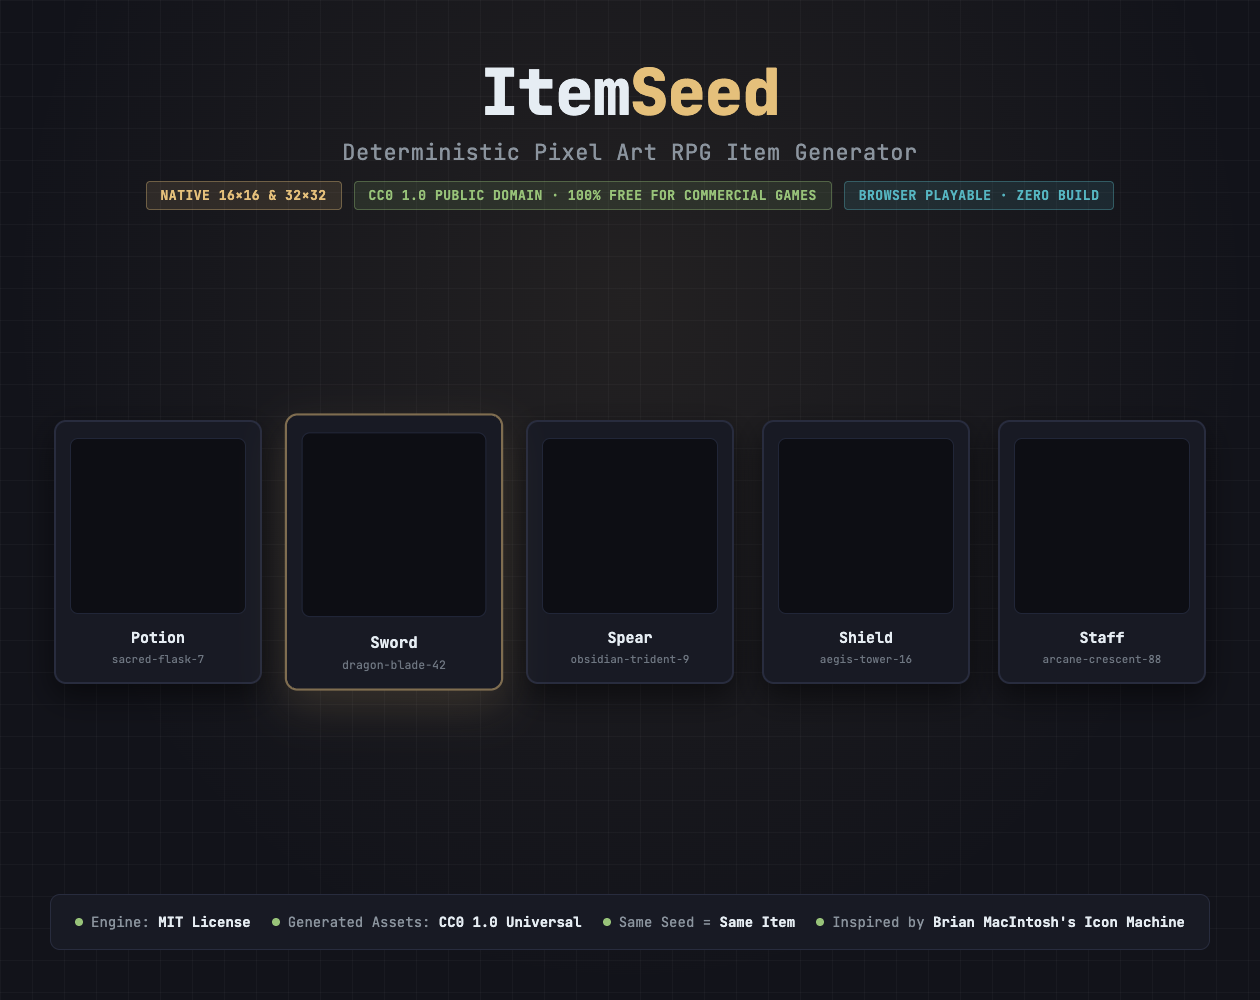
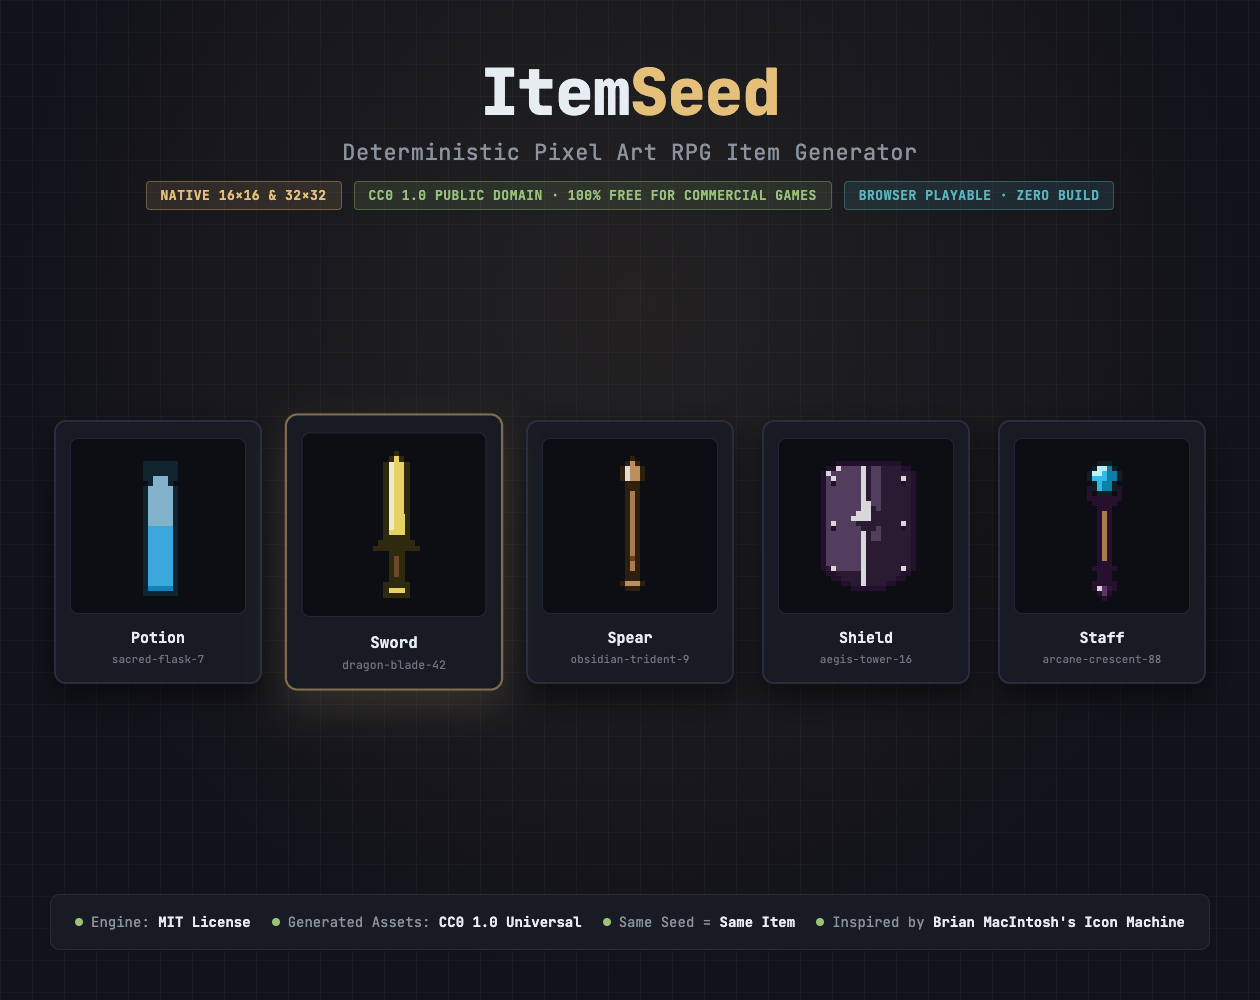
fix(itch): resolve blank cover canvas rendering and add store description formatting helper (TASK-018)
- Fix Puppeteer script loading in scripts/generate-itch-assets.mjs by inlining core drawing modules to avoid Chromium about:blank local resource blocking.
- Add render verification assertion for non-zero pixel rendering in all 5 showcase item canvases.
- Regenerate docs/pm/assets/cover.png with crisp, rendered 32x32 pixel art.
- Update docs/pm/ITCH_RELEASE_PACK.md Section 3 with rich-text formatted copy instructions and replace unsupported Markdown table with list format.
- Add docs/pm/store-description.html for easy one-click rich text copying into itch.io WYSIWYG editor.
- Add aggregate 'npm test' script to package.json and update FRONTEND_KANBAN.md (TASK-018 to Done).

diff --git a/docs/pm/store-description.html b/docs/pm/store-description.html
@@ -1,0 +1,146 @@
+<!DOCTYPE html>
+<html lang="en">
+<head>
+  <meta charset="utf-8">
+  <title>ItemSeed — itch.io Store Description Formatted Preview</title>
+  <style>
+    body {
+      font-family: -apple-system, BlinkMacSystemFont, "Segoe UI", Roboto, Helvetica, Arial, sans-serif;
+      max-width: 820px;
+      margin: 40px auto;
+      padding: 24px;
+      line-height: 1.65;
+      color: #24292f;
+      background: #fafbfc;
+    }
+    .instruction-card {
+      background: #f0f7ff;
+      border: 2px dashed #0969da;
+      border-radius: 10px;
+      padding: 18px 24px;
+      margin-bottom: 32px;
+    }
+    .instruction-card h2 {
+      margin: 0 0 8px 0;
+      font-size: 17px;
+      color: #0969da;
+    }
+    .instruction-card p {
+      margin: 4px 0;
+      font-size: 14px;
+      color: #1f2328;
+    }
+    .content-container {
+      background: #ffffff;
+      border: 1px solid #d0d7de;
+      border-radius: 10px;
+      padding: 36px 40px;
+      box-shadow: 0 4px 16px rgba(0, 0, 0, 0.04);
+    }
+    h1 {
+      font-size: 28px;
+      border-bottom: 2px solid #eaecef;
+      padding-bottom: 12px;
+      margin-top: 0;
+    }
+    h3 {
+      font-size: 19px;
+      margin-top: 24px;
+      margin-bottom: 12px;
+    }
+    hr {
+      border: 0;
+      border-top: 1px solid #d0d7de;
+      margin: 24px 0;
+    }
+    ul, ol {
+      padding-left: 24px;
+    }
+    li {
+      margin-bottom: 8px;
+    }
+    code {
+      background: rgba(175, 184, 193, 0.2);
+      padding: 2px 6px;
+      border-radius: 4px;
+      font-size: 85%;
+    }
+    a {
+      color: #0969da;
+      text-decoration: underline;
+    }
+  </style>
+</head>
+<body>
+  <div class="instruction-card">
+    <h2>📋 How to Copy to itch.io Description:</h2>
+    <p>1. Open this file in your web browser (Chrome, Edge, or Safari).</p>
+    <p>2. Select all text inside the white box below (from <strong>ItemSeed — Pixel Art RPG Item Generator</strong> down to the GitHub link).</p>
+    <p>3. Press <strong>Cmd+C</strong> (macOS) or <strong>Ctrl+C</strong> (Windows) to copy rich formatted text.</p>
+    <p>4. Paste (<strong>Cmd+V</strong>) directly into the itch.io description editor. It will preserve all bold styling, bullet lists, headings, and links cleanly!</p>
+  </div>
+
+  <div class="content-container" id="copy-area">
+    <h1>ItemSeed — Pixel Art RPG Item Generator</h1>
+
+    <p><strong>ItemSeed</strong> is a seeded, deterministic procedural pixel-art RPG item generator that runs directly in your browser.</p>
+
+    <p>Generate infinite weapons, gear, and magical artifacts without external dependencies or heavy engines. Every generated asset can be downloaded as a clean, transparent PNG and is licensed under <strong>CC0 1.0 Universal</strong> — <strong>100% free for commercial and indie games with no strings attached</strong>.</p>
+
+    <hr>
+
+    <h3>✨ Key Features</h3>
+    <ul>
+      <li><strong>Native 16×16 &amp; 32×32 Pixel Art</strong>: Built from the ground up for retro resolutions. 16×16 icons are uniquely hand-compressed with feature-folding logic, never crudely downscaled.</li>
+      <li><strong>Same Seed = Same Item</strong>: Fully deterministic procedural generation. A 20-character string reproduces the exact same sprite every time, allowing artwork to live in source code rather than binary blobs.</li>
+      <li><strong>24-Cell Batch Exploration</strong>: Explore 24 procedural variations simultaneously. Click any cell to immediately inspect, fine-tune, or download.</li>
+      <li><strong>Transparent PNG Export</strong>: Single-click download (<code>⇩ png</code>) with standardized filenames containing item type, seed string, and resolution.</li>
+      <li><strong>Multi-Theme &amp; Multi-Language</strong>: Seamless dark/light theme switching and full dual-language support (English &amp; 繁體中文).</li>
+      <li><strong>Runs Everywhere</strong>: Zero build step, vanilla HTML5 Canvas + JavaScript. No ads, no logins, no paywalls.</li>
+    </ul>
+
+    <hr>
+
+    <h3>🛡 Supported Item Families</h3>
+    <ol>
+      <li><strong>Potion</strong>: Volumetric flasks, round bottles, test tubes with fluid levels, bubbling effects, and cork/wax/cloth seal stoppers.</li>
+      <li><strong>Sword</strong>: Slanted broadswords, rapiers, and curved sabers with blade reflections, crossguards, grips, and pommels.</li>
+      <li><strong>Spear</strong>: Symmetrical tridents, harpoons, and straight lances with bound shafts and butt caps.</li>
+      <li><strong>Shield</strong>: Heater shields, studded tower shields, and round bucklers with ornate bosses and rim rivets.</li>
+      <li><strong>Staff</strong>: Crescent-head, arcane-orb, and shepherd-crozier staves with embedded 4-element crystal matrices.</li>
+    </ol>
+
+    <hr>
+
+    <h3>📜 Clear, Developer-Friendly Licensing</h3>
+    <ul>
+      <li><strong>Generated Assets (PNG &amp; JSON) — CC0 1.0 Universal (Public Domain)</strong>:<br>
+      <strong>Free for commercial games</strong>, personal projects, game jams, and modifications. No royalties, no attribution required.</li>
+      <li><strong>Generator Engine (Source Code) — MIT License</strong>:<br>
+      Fully open source. Free to inspect, study, fork, or build tools around.</li>
+    </ul>
+
+    <hr>
+
+    <h3>❓ Frequently Asked Questions (FAQ)</h3>
+
+    <p><strong>Q: Can I use the generated icons in commercial games sold on Steam, itch.io, or consoles?</strong><br>
+    <strong>A:</strong> Yes, absolutely. All exported PNG files and JSON specifications are dedicated to the public domain under CC0 1.0. You may use them in any commercial product without paying royalties or asking for permission.</p>
+
+    <p><strong>Q: Do I need to credit ItemSeed in my game?</strong><br>
+    <strong>A:</strong> No attribution is legally required. A shoutout in your credits is always appreciated, but entirely optional.</p>
+
+    <p><strong>Q: Can I edit, recolor, or upscale the downloaded icons?</strong><br>
+    <strong>A:</strong> Yes. Feel free to open the transparent PNGs in Aseprite, Photoshop, or your favorite pixel editor to adjust palettes or add animations.</p>
+
+    <hr>
+
+    <h3>💡 Credits &amp; Attribution</h3>
+    <ul>
+      <li><strong>Inspiration</strong>: ItemSeed is inspired by Brian MacIntosh's pioneering <a href="https://bmaczero.itch.io/icon-machine" target="_blank" rel="noopener">Icon Machine</a>.</li>
+      <li><strong>Provenance &amp; Verification</strong>: ItemSeed is an independent, clean-room implementation using modern canvas rendering and standard public-domain algorithms (Mulberry32 PRNG and cyrb53 hash). Full audit record is available in our <a href="https://github.com/ochowei/itemseed/blob/dev/docs/PROVENANCE.md" target="_blank" rel="noopener">PROVENANCE.md</a>.</li>
+      <li><strong>Source Code</strong>: Explore the source, report issues, or contribute on <a href="https://github.com/ochowei/itemseed" target="_blank" rel="noopener">GitHub (ochowei/itemseed)</a>.</li>
+    </ul>
+  </div>
+</body>
+</html>

diff --git a/docs/pm/ITCH_RELEASE_PACK.md b/docs/pm/ITCH_RELEASE_PACK.md
@@ -24,6 +24,7 @@ npm run assets:itch
 | **Screenshot 1** | `docs/pm/assets/screenshot_01_studio.png` | Desktop studio interface in action (`1280 × 800 px`). |
 | **Screenshot 2** | `docs/pm/assets/screenshot_02_batch.png` | 24-cell batch preview exploration (`1280 × 800 px`). |
 | **Screenshot 3** | `docs/pm/assets/screenshot_03_dual_resolution.png` | Native 32×32 vs 16×16 pixel art comparison (`1280 × 800 px`). |
+| **Store Description (Rich)** | `docs/pm/store-description.html` | Formatted preview helper for copy-pasting directly into itch.io rich text editor. |
 
 ---
 
@@ -57,7 +58,18 @@ Under **Embed options**:
 
 ## 3. Store Description Copy (Ready to Copy-Paste)
 
-Copy the markdown block below directly into the itch.io description editor:
+itch.io's project description field uses a **Rich Text (WYSIWYG) Editor** by default, rather than raw Markdown. Choose whichever workflow matches your itch.io account configuration:
+
+### Method A (Recommended for Default itch.io Editor): Rich Formatted Copy
+1. Open [docs/pm/store-description.html](store-description.html) in your web browser.
+2. Select and copy all content inside the white box (`Cmd+A` / `Cmd+C`).
+3. Paste (`Cmd+V`) directly into the itch.io description editor.  
+   *All headings, bold typography, bullet lists, and links will automatically paste with clean, native formatting.*
+
+---
+
+### Method B (For itch.io Markdown Mode):
+> **Note**: To use raw Markdown on itch.io, go to **Account Settings** &rarr; **Content** &rarr; enable **"Prefer Markdown input where available"**. Note that itch.io's Markdown processor does not support Markdown pipe tables (`|...|`), so the licensing section below is pre-formatted as clean nested lists:
 
 ```markdown
 # ItemSeed — Pixel Art RPG Item Generator
@@ -91,10 +103,10 @@ Generate infinite weapons, gear, and magical artifacts without external dependen
 
 ### 📜 Clear, Developer-Friendly Licensing
 
-| Component | License | What It Means For You |
-| :--- | :--- | :--- |
-| **Generated Assets** (PNG & JSON) | **CC0 1.0 Universal** (Public Domain) | **Free for commercial games**, personal projects, game jams, and modifications. No royalties, no attribution required. |
-| **Generator Engine** (Source Code) | **MIT License** | Fully open source. Free to inspect, study, fork, or build tools around. |
+- **Generated Assets (PNG & JSON) — CC0 1.0 Universal (Public Domain)**  
+  **Free for commercial games**, personal projects, game jams, and modifications. No royalties, no attribution required.
+- **Generator Engine (Source Code) — MIT License**  
+  Fully open source. Free to inspect, study, fork, or build tools around.
 
 ---
 

diff --git a/FRONTEND_KANBAN.md b/FRONTEND_KANBAN.md
@@ -41,6 +41,11 @@ This board tracks frontend development tasks for the `itemseed` project.
 
 > Completed tasks reviewed and confirmed by the Project Manager.
 
+### [TASK-018] Fix Blank Item Canvases in itch.io Cover Image Generator
+- **Status**: Done
+- **Completed**: 2026-09-15
+- **Summary**: Resolved blank canvas rendering in `scripts/generate-itch-assets.mjs` caused by Chromium's `about:blank` local resource policy blocking `<script src="file://...">`. Inlined core engine scripts (`random.js`, `palette.js`, `pixel-utils.js`, `potion.js`, `sword.js`, `spear.js`, `shield.js`, `staff.js`) directly into HTML, ensured execution after DOM and font readiness, added automated canvas non-zero pixel assertions, and successfully regenerated `docs/pm/assets/cover.png` with crisp 32×32 pixel art across all 5 item types. Added aggregate `npm test` script in `package.json`. Verified all test suites passed.
+
 ### [TASK-017] Pre-Release UI Enhancements, Export Filename Standard, and itch.io Packaging
 - **Status**: Done
 - **Completed**: 2026-09-14
